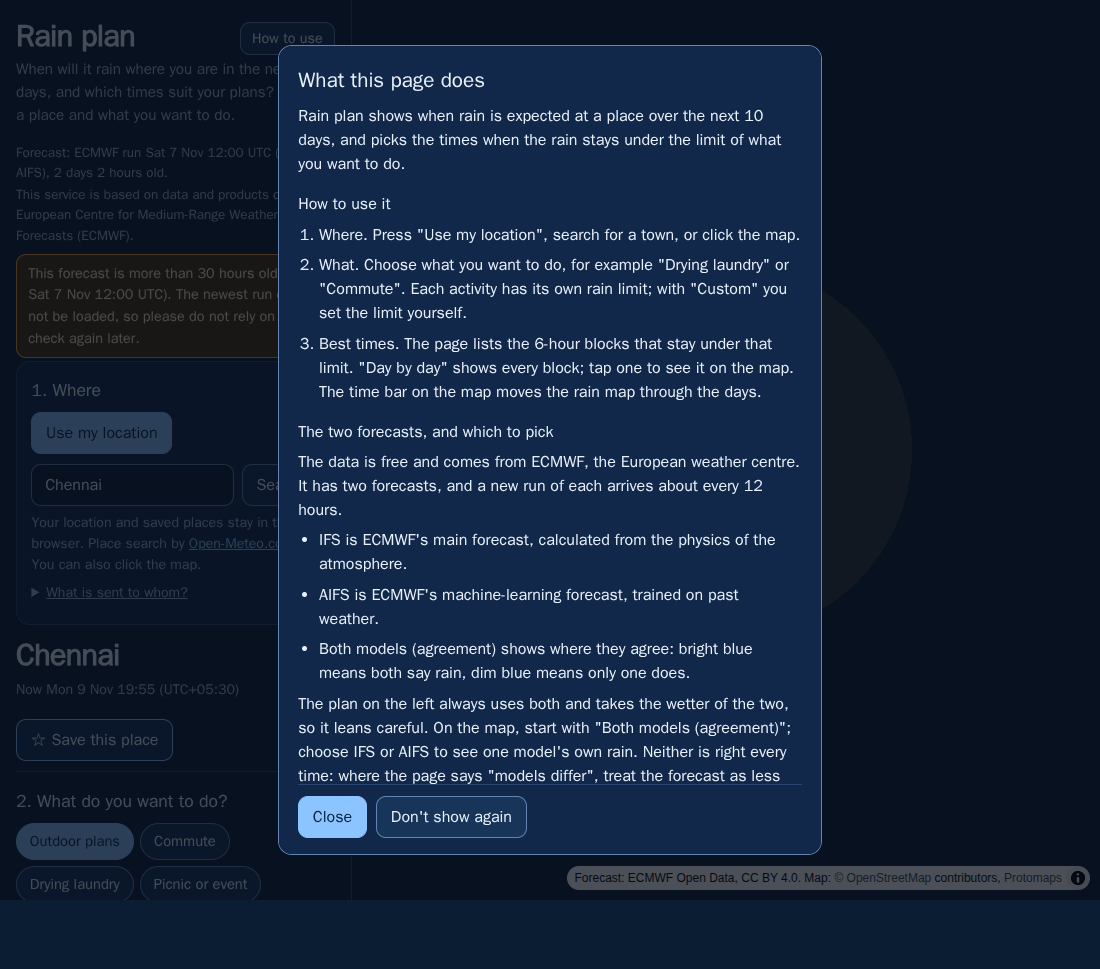
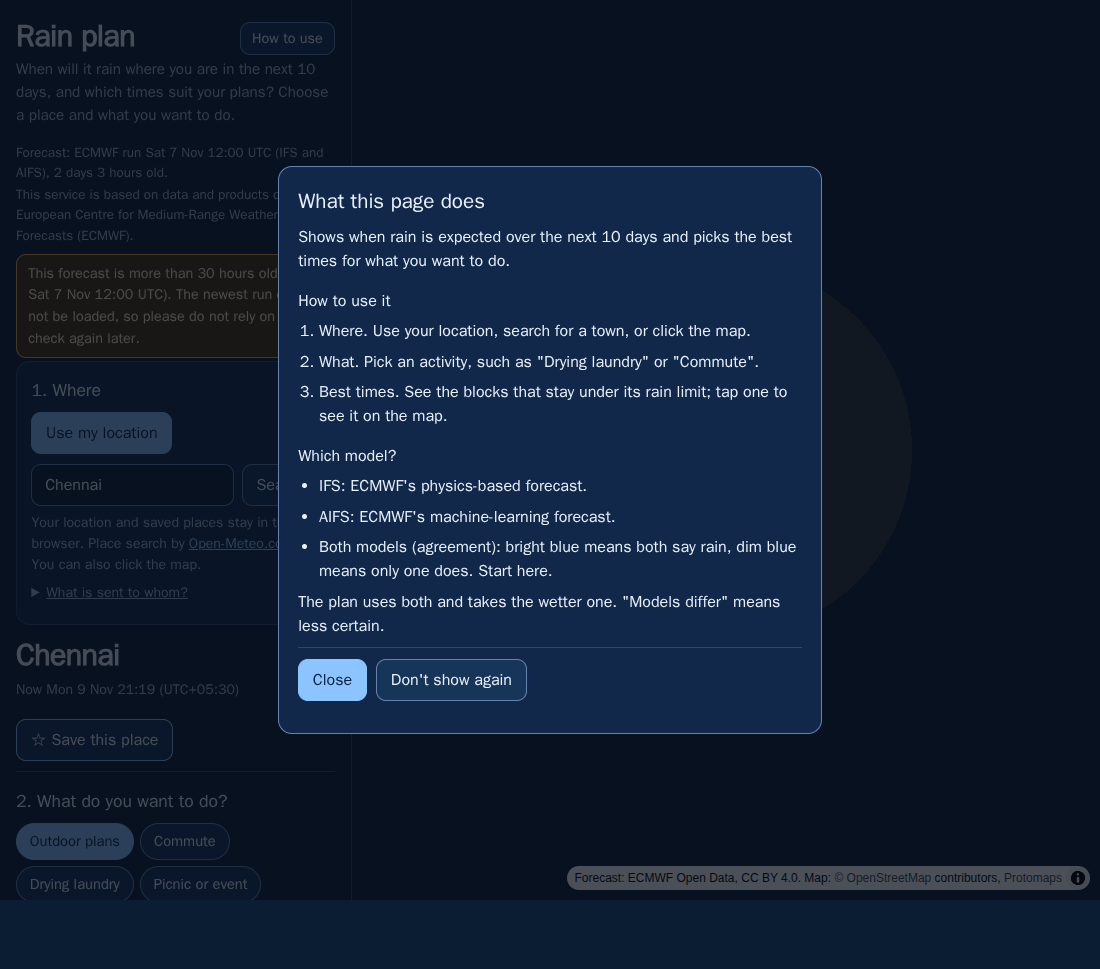
Shorter guide, a click outside it closes it, the user's Mac result; the browser checks close each scenario's contexts (E043, E044)
The guide is one short line per point. A click on the dimmed page closes it, so it no longer swallows a click meant for the map. Three new browser scenarios click the map after the guide; the test run now closes every scenario's browser contexts (open maps had starved WebKit in Docker). E044 (the user's map point still not working after closing the guide) is not reproduced and stays open.

Changed region(s): [[0.2473, 0.031, 0.7727, 0.8978], [0.68, 0.6192, 0.7109, 0.6502]]

diff --git a/frontend/index.html b/frontend/index.html
@@ -104,22 +104,20 @@
   </div>
   <dialog id="guide" class="guide" aria-labelledby="guide-h">
     <h2 id="guide-h" tabindex="-1" autofocus>What this page does</h2>
-    <p>Rain plan shows when rain is expected at a place over the next 10 days, and picks the times when the rain stays under the limit of what you want to do.</p>
+    <p>Shows when rain is expected over the next 10 days and picks the best times for what you want to do.</p>
     <h3>How to use it</h3>
     <ol>
-      <li><strong>Where.</strong> Press "Use my location", search for a town, or click the map.</li>
-      <li><strong>What.</strong> Choose what you want to do, for example "Drying laundry" or "Commute". Each activity has its own rain limit; with "Custom" you set the limit yourself.</li>
-      <li><strong>Best times.</strong> The page lists the 6-hour blocks that stay under that limit. "Day by day" shows every block; tap one to see it on the map. The time bar on the map moves the rain map through the days.</li>
+      <li><strong>Where.</strong> Use your location, search for a town, or click the map.</li>
+      <li><strong>What.</strong> Pick an activity, such as "Drying laundry" or "Commute".</li>
+      <li><strong>Best times.</strong> See the blocks that stay under its rain limit; tap one to see it on the map.</li>
     </ol>
-    <h3>The two forecasts, and which to pick</h3>
-    <p>The data is free and comes from ECMWF, the European weather centre. It has two forecasts, and a new run of each arrives about every 12 hours.</p>
+    <h3>Which model?</h3>
     <ul>
-      <li><strong>IFS</strong> is ECMWF's main forecast, calculated from the physics of the atmosphere.</li>
-      <li><strong>AIFS</strong> is ECMWF's machine-learning forecast, trained on past weather.</li>
-      <li><strong>Both models (agreement)</strong> shows where they agree: bright blue means both say rain, dim blue means only one does.</li>
+      <li><strong>IFS</strong>: ECMWF's physics-based forecast.</li>
+      <li><strong>AIFS</strong>: ECMWF's machine-learning forecast.</li>
+      <li><strong>Both models (agreement)</strong>: bright blue means both say rain, dim blue means only one does. Start here.</li>
     </ul>
-    <p>The plan on the left always uses both and takes the wetter of the two, so it leans careful. On the map, start with "Both models (agreement)"; choose IFS or AIFS to see one model's own rain. Neither is right every time: where the page says "models differ", treat the forecast as less certain.</p>
-    <p class="note">"How to use" at the top opens this again.</p>
+    <p>The plan uses both and takes the wetter one. "Models differ" means less certain.</p>
     <div class="guide-buttons">
       <button id="guide-close" type="button" class="primary">Close</button>
       <button id="guide-hide" type="button">Don't show again</button>

diff --git a/frontend/src/guide.js b/frontend/src/guide.js
@@ -34,6 +34,11 @@ export function startGuide(doc, storage, key) {
     dialog.scrollTop = 0; // a small phone must start at the first line, not at the buttons
   };
   opener.addEventListener('click', open);
+  dialog.addEventListener('click', (event) => { // a click on the dimmed page (the dialog's backdrop) closes it for this visit, so it never swallows a click meant for the map
+    if (event.target !== dialog) return; // a button or text inside the guide: not an outside click (a key press on a button also reports the position 0,0)
+    const box = dialog.getBoundingClientRect();
+    if (event.clientX < box.left || event.clientX > box.right || event.clientY < box.top || event.clientY > box.bottom) dialog.close();
+  });
   doc.getElementById('guide-close').addEventListener('click', () => dialog.close());
   doc.getElementById('guide-hide').addEventListener('click', () => {
     hideGuide(storage, key);

diff --git a/README.md b/README.md
@@ -20,7 +20,7 @@ The same text opens as a guide on a first visit (a "What this page does" window 
 - A web app with **Plan-my-day** (place + activity -> best times, day tiles with a rain level per 6-hour block, rain totals as a range between two models), a **globe that flies to the place and flattens into a flat map** with the stored OpenStreetMap base map, IFS / AIFS / both-models views and a colour key, and an honesty strip (which run, how old, ECMWF's attribution, a plain warning when the run is older than 30 hours).
 - Checked in Edge, Chromium, Firefox and WebKit (Docker), phone emulation, and by the user on real Android phones (Firefox, Chrome, Samsung Internet).
 
-**Does not / limits (the full list is at the end):** the rain is on a 0.25-degree grid (about 28 km), so it cannot show street-level detail; the stored base map ends at zoom 7; IFS stops at 240 h; GitHub's scheduler skipped scheduled runs on 2026-11-08, so the forecast can be older than every 6 hours (pushes also refresh it); GitHub Pages sends no security headers except HSTS; behaviour for many simultaneous visitors on GitHub is untested; Safari on a Mac was not tried by a person yet (an iPhone works, the user's word).
+**Does not / limits (the full list is at the end):** the rain is on a 0.25-degree grid (about 28 km), so it cannot show street-level detail; the stored base map ends at zoom 7; IFS stops at 240 h; GitHub's scheduler skipped scheduled runs on 2026-11-08, so the forecast can be older than every 6 hours (pushes also refresh it); GitHub Pages sends no security headers except HSTS; behaviour for many simultaneous visitors on GitHub is untested; Safari on an iPhone and on a Mac both work by the user's word (no versions or measurements).
 
 ## What it does
 - **The page:** on the left (about a quarter of the width; below the map on a phone) **Plan-my-day**: choose a place (device location, search, saved place, map click) and an activity; it shows the best times, **day tiles with the rain level of each 6-hour block** (No rain, Light, Moderate, Heavy; a day with nothing to report is one quiet row) and rain totals as a range between two models. On the right a **globe that flies to the chosen place and flattens into a flat map** (zoom 0.8 to 8), with an IFS / AIFS / both-models switch (in the both-models view bright blue means both models say rain, dim blue that only one does), a time bar, the stored base map under the rain, and a colour key. Above zoom 4.5 the browser draws the rain itself from the exact forecast values.
@@ -78,10 +78,10 @@ The site as GitHub Pages serves it (from a sub-folder, with no security headers:
 ## Tests and checks (the official way is Docker)
 ```
 docker compose -f docker/compose.yaml run --rm tests            # Python: 178 passed; no network, project read-only
-docker compose -f docker/compose.yaml run --rm frontend-tests   # Node: 120 passed
+docker compose -f docker/compose.yaml run --rm frontend-tests   # Node: 121 passed
 docker compose -f docker/compose.yaml run --rm process python -m scripts.plan_reference   # independent Python plan from the raw GRIB
 docker compose -f docker/compose.yaml run --rm frontend-check   # the browser code on the real tiles equals it: 8 places x 8 activities
-BROWSER_NAME=chromium docker compose -f docker/compose.yaml run --rm browser-checks   # 38 scenarios in a real engine (chromium | firefox | webkit); SCREENSHOT_BASE_URL points it at another site
+BROWSER_NAME=chromium docker compose -f docker/compose.yaml run --rm browser-checks   # 41 scenarios in a real engine (chromium | firefox | webkit); SCREENSHOT_BASE_URL points it at another site
 docker compose -f docker/compose.yaml run --rm browser-checks node tools/phone_checks.mjs   # Pixel 7 and iPhone 15 emulation: overflow, 44 px tap targets, map cover, location flow
 python scripts/smoke_site.py https://zaspartans.github.io/Quest_lab/   # the live site: page, forecast age, status, tile, range request
 python scripts/check_workflow.py                                  # the workflow's safety rules
@@ -94,8 +94,8 @@ Measurements with the computer's own GPU (Edge): `frontend/tools/load_timing.mjs
 |---|---|---|
 | Rain amounts | `validate_points` and `validate_site` compare the processed and exported data with the raw GRIB files at 8 places across time zones; units are handled per model (AIFS is in mm, IFS in metres) | all match; 6-hour amounts carry up to about 0.24 mm of GRIB packing rounding (D14) |
 | Plan logic | the page's own code on the real tiles against an independent Python version written from the same rules (`plan_reference`, `frontend-check`), 8 places x 8 activities | all match |
-| Python and Node code | Docker tests (178 and 120) incl. a repo secret scan, config consistency, workflow rules, deliberate-breakage tests ("negative controls") for the checks added late | pass |
-| Page in browsers | 38 scenarios (address, search, saved places, hostile input, base map, live layer, map flights, colour key, honesty strip, credits, rain levels, location, the first-visit guide) in Edge (real GPU), Chromium, Firefox and WebKit | 38 of 38 on the local test site; the 28 scenarios before the level scenarios also passed on the sub-folder test site; 26 of 26 on the live site on 2026-11-07 |
+| Python and Node code | Docker tests (178 and 121) incl. a repo secret scan, config consistency, workflow rules, deliberate-breakage tests ("negative controls") for the checks added late | pass |
+| Page in browsers | 41 scenarios (address, search, saved places, hostile input, base map, live layer, map flights, colour key, honesty strip, credits, rain levels, location, the first-visit guide) in Edge (real GPU), Chromium, Firefox and WebKit | 41 of 41 on the local test site; the 28 scenarios before the level scenarios also passed on the sub-folder test site; 26 of 26 on the live site on 2026-11-07 |
 | Phones | Pixel 7 and iPhone 15 emulation (no sideways scroll, 44 px tap targets, map visible on the first screen, location flow); the user's own Android phones | emulation passes; Firefox, Chrome and Samsung Internet on Android "work and look good" (the user's words) |
 | Live site | `smoke_site.py` after every deploy; a fresh request for page, manifest, status and headers; the public map file against the local checked file by size and four sampled ranges | pass (`docs/SUBMISSION.md`) |
 | Concurrency | replay of 1 to 100 visitors and 5 to 20 real browsers on this computer; 1 to 3 visitors on the live site (about 21 MB) | every answer correct; local numbers describe this machine, not GitHub |
@@ -111,10 +111,10 @@ There is **no GPU on the server side** (static hosting serves files only); the m
 |---|---|---|
 | Android phones: Firefox, Chrome, Samsung Internet | the user's own phones, the live site | work and look good (the user's words, 2026-11-08; no measurements) |
 | Firefox | the user's own PC | the base map, the rain, the credit line and the device place name drew (user's screenshots, 2026-11-07) |
-| Microsoft Edge | the developer's Windows PC, real GPU | 38 of 38 scenarios (local test site); 26 of 26 earlier on the live site; 20 real Edge browsers at once finished correctly on the local site (slowly) |
-| Chromium 158, WebKit 27 (the engine of Safari, not Safari), Firefox 159 | Docker, software WebGL | 38 of 38 on the local test site; Firefox in Docker has no WebGL2, so its map scenarios return early there |
+| Microsoft Edge | the developer's Windows PC, real GPU | 41 of 41 scenarios (local test site); 26 of 26 earlier on the live site; 20 real Edge browsers at once finished correctly on the local site (slowly) |
+| Chromium 158, WebKit 27 (the engine of Safari, not Safari), Firefox 159 | Docker, software WebGL | 41 of 41 on the local test site; Firefox in Docker has no WebGL2, so its map scenarios return early there |
 | Safari on an iPhone | the user's own iPhone, the live site | **works** (the user's words, 2026-11-08: "iphone works"; the model and iOS version were not given; no measurements) |
-| Safari on a Mac | | **not tried yet by a person** (only the WebKit emulation above); the user plans to check |
+| Safari on a Mac | the user's own Mac, the live site | **works** (the user's words, 2026-11-09: "Mac works"; the Safari and macOS versions were not given; no measurements; it is not stated whether this was before or after the guide was added) |
 
 ## Known limits and shortcuts (full list: `docs/PROGRESS.md` and the shortcut register in `docs/DECISIONS.md`)
 **Every `shortcut:` marker in the code (3, in 2 files):** (1) `pipeline/process.py`: IFS has 3-hourly steps to 144 h but only 6-hourly blocks are used (D14); (2) `pipeline/process.py`: tiny negative differences from GRIB packing are set to zero, at most about 0.06 % of the rain mass (D14); (3) `frontend/src/app.js`: a place found by the device or by a map click has no known time zone, so the device's zone is used and labelled (D24, D30). A fourth marker, in `config/headers.conf`, was stale and was removed on 2026-11-08 (the converter it announced exists).

diff --git a/docs/ERRORS.md b/docs/ERRORS.md
@@ -46,6 +46,8 @@ Summary (update with every change). `fix worked / fix tried` counts only what ac
 | E040 | Choosing another "most rain you accept" in Custom did not update the page address, so after a reload the old `accept=` of the address won over the choice stored in the browser and the choice was lost (found by the new level scenarios of PLAN-011 step 11.4) | 1 | 1/1 (`chooseAccept` writes the address like `chooseActivity`; scenario; negative control fails without it) |
 | E041 | On a machine without the Docker images, the README's `frontend-tests` failed with `pull access denied for precip-frontend`: three services used an image that only another service builds (found by the clean-clone run of step 12.2) | 1 | 1/1 (the same `build:` block for all users of the image, via YAML anchors; proved in the clone) |
 | E042 | I started the Vite dev server in the background to compare answers before and after a refactor and could not stop it: the permission check refused the process stop; it still listens on localhost:5173 (loopback only) | 1 | 0/0 (to be stopped by the user; rule for me: start such a server so that its PID is known and stoppable, for example as a tracked background task) |
+| E043 | The first-visit guide (a modal window) covered the page, so a click on the map behind it did nothing (the user: "the map point is not working"; I reproduced exactly this on the live site: clicks ignored while the guide is open) | 1 | 1/1 for this cause (a click on the dimmed page now closes the guide; scenario) |
+| E044 | The user says the map point still does not work AFTER the guide is closed, also on a PC; I could not reproduce it (live Edge desktop and Pixel 7 emulation, local Chromium, Firefox, WebKit, Edge) | 1 | 0/0 (open: the browser and what is seen are not known yet) |
 
 ---
 
@@ -408,3 +410,10 @@ Summary (update with every change). `fix worked / fix tried` counts only what ac
 
 ## E042 - A background dev server that I could not stop (found 2026-11-08 19:59 UTC, step 16.5)
 - seen: 1. fix worked / fix tried: 0/0. What happened: for the request comparison of step 16.5 I started `node node_modules/vite/bin/vite.js` in the background of a shell call (`( ... &)`), so the session did not track it and I did not note its PID. At the end the process stop (`Stop-Process` on the node processes whose command line contains `vite.js`) was refused by the permission check ("Interfere With Workloads"); I did not try another way around it. A later read-only check (`netstat`, a socket test) shows `::1:5173` still open, `127.0.0.1:5173` closed. It was started 2026-11-08 19:54 UTC; it serves only loopback and only the files of `data/` and the Vite page. Lesson (E021 again in a new form): start a server I will need to stop as a tracked background task (the tool then gives me an ID and a way to stop it) or note its PID at once. Open: the user stops it (Task Manager, the `node.exe` that started at 19:54 UTC).
+
+## E043 - The guide window blocked clicks on the map (found 2026-11-09 15:50 UTC, user report; PLAN-017)
+- seen: 1. fix worked / fix tried: 1/1. User: "the map point is not showing, not working at all". A `<dialog>` opened with `showModal()` makes the rest of the page inert, and the guide opens on every first visit, so a visitor who clicks the map first gets no reaction. My live test (fresh Edge, desktop and a Pixel 7 profile): a click on the map while the guide is open: plan not shown; after "Close": plan shown, "Map point (...)" title, one visible marker, no console error. Fix: a click on the dimmed page closes the guide for this visit (`guide.js`; a key press on a button is not counted; Node test) and the scenario "a click on the map behind the guide closes it, and the next click chooses a map point" (passes in Chromium, Firefox, WebKit, Edge). Not yet shown to the user.
+- Why my earlier checks did not see it: every other scenario opens the page as a returning visitor with the guide hidden (`guide_skip.mjs`), and the guide scenarios never clicked the map. Lesson: a new overlay needs a check of what it blocks.
+
+## E044 - "After I close the guide the map point does not work" is not reproduced (found 2026-11-09 15:50 UTC; OPEN)
+- seen: 1. fix worked / fix tried: 0/0. User (twice, after I answered with E043): the map point does not work on a PC either, and "after I close the guide it does not work". What I ran: live site, fresh Edge, desktop 1280x800 and Pixel 7 profile: guide closed by its button, then a click on the map: it worked (title "Map point (...)", marker visible, the map flew to it); a returning visitor with six clicks at different spots and a click on the flat map after a place from the address: all worked; no console error. Local: the new scenarios "after Close" and "after Don't show again" pass in Chromium, Firefox, WebKit and Edge. In WebKit (Docker) they failed in 4 of 6 early runs and passed in the others, always late in the run; after closing every scenario's browser contexts (dozens of software-rendered maps were left open) WebKit passed 3 of 3, so that was my test run starving the engine (E025 class), not shown to be the user's problem. **What I do not know:** the user's browser and version, whether the dot, the name, the plan or the map movement is what fails, and whether a saved place or the device location is involved. Asked the user.

diff --git a/docs/PROGRESS.md b/docs/PROGRESS.md
@@ -843,3 +843,9 @@ Method: the Vite dev server of this computer (`node node_modules/vite/bin/vite.j
 - **Pushed with the user's go** ("Push it, I want to test it live") at 2026-11-09 14:29 UTC: `9d3ffcf..685d0a7` to `ZASPARTANS/Quest_lab` only. Workflow run 42635221412 (push): build, deploy and smoke all green (done by 14:36 UTC, about 7 minutes).
 - **Live checks (my own, one visit each, on the user's own site):** `scripts/smoke_site.py` passed (page, forecast manifest and age, status file, a tile, base-map range request, fonts and sprites); a fresh real Edge visit: the guide was open on the first visit with the heading "What this page does" and the model section; "Don't show again" then a reload: the guide stayed closed; "How to use" opened it again; no console error; screenshot looked at (buttons pinned and in view). **Not checked:** Safari on a Mac or an iPhone, and any real person's reaction (D48 bet still open).
 - **README run count refreshed from `gh run list`:** 16 runs, 14 green, 2 failed (the same two as before), by push 11 (9 green), by schedule 4 (4 green), by hand 1 (green). Documentation only; local commit, not pushed (waits for the user's go, together with the Mac result).
+
+## Step 17.4: the user's Mac result, a shorter guide, the map-click report (2026-11-09 15:50 UTC; 69.52 h used)
+- **Mac:** the user: "Also Mac works" (2026-11-09; no versions; not stated whether before or after the guide). README and SUBMISSION updated: Safari on an iPhone and on a Mac both work by the user's word.
+- **Shorter guide (user: "There are a lot of paragraphs, reduce them please"):** the dialog is now one short line per point: one purpose line, 3 numbered steps, 3 model bullets and one closing line; no source paragraph, no "how to use opens this again" note. At 1100x900 it fits without scrolling; text checked in the scenarios (`Which model?`, `IFS:`, `AIFS:`, `Both models (agreement):`).
+- **Map click (user, three messages):** E043 (the guide blocked the map while open: fixed, a click on the dimmed page closes it) and E044 (after closing the guide the user still sees no working map point: NOT reproduced, open, details asked).
+- **Test-run fix:** `browser_checks.mjs` now closes each scenario's browser contexts (300 lines exactly): WebKit in Docker had been starved by open maps. **41 scenarios** now (38 + the 2 after-guide ones + the click-behind one; 41 ok counted in Chromium), Node 121 passed.

diff --git a/docs/SUBMISSION.md b/docs/SUBMISSION.md
@@ -32,4 +32,4 @@ Status: finished 2026-11-08 21:15 UTC (step 12.4 and 12.5, 50.9 h after the firs
 2. **Decide whether the scheduled workflow stays on** (it runs every 6 hours until it is disabled: repository Actions tab, the workflow, Disable workflow). GitHub's scheduler ran it only twice in the first 19 hours of 2026-11-08 (09:10 and 18:53 UTC).
 3. **Stop the dev server** I started on 2026-11-08 19:54 UTC and could not stop (E042): end the `node.exe` that started then (Task Manager); it listens on `localhost:5173` only.
 4. **The C: drive is full** (0 GB free; Docker Desktop's disk file is 34 GB there; compaction needs an administrator terminal, steps in `docs/ENVIRONMENT.md`); not a project problem, but it can break Docker builds.
-5. **Safari on a Mac** was not tried by a person yet (the user plans to check); the iPhone check was done by the user (works). `python:3.11-slim` has a newer digest than the pin (S08).
+5. **Safari on an iPhone and on a Mac** were checked by the user, who reported that both work (2026-11-08 and 2026-11-09; no versions or measurements). `python:3.11-slim` has a newer digest than the pin (S08).
